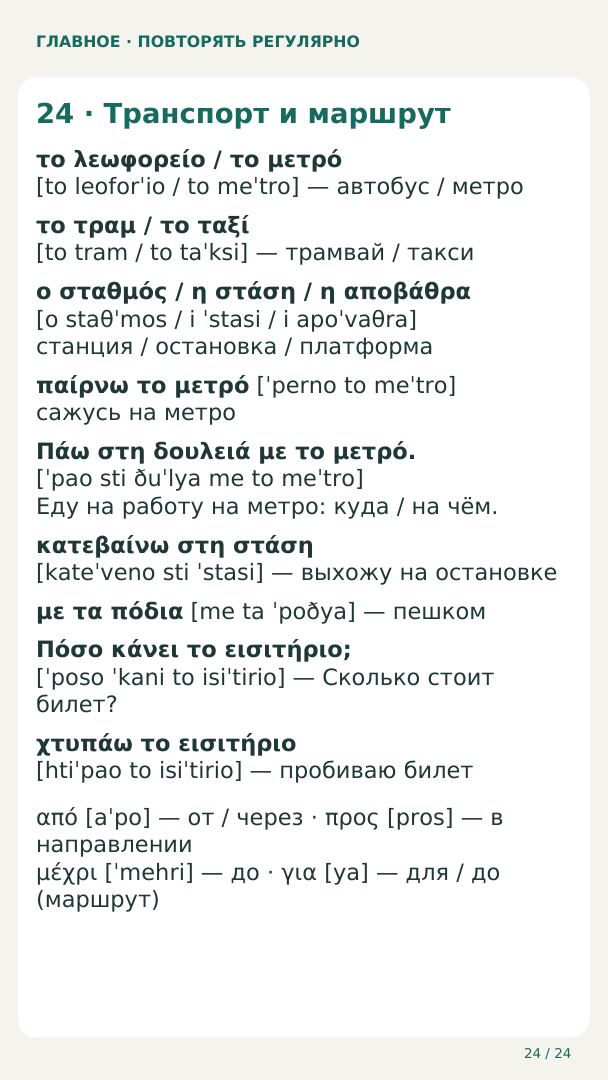
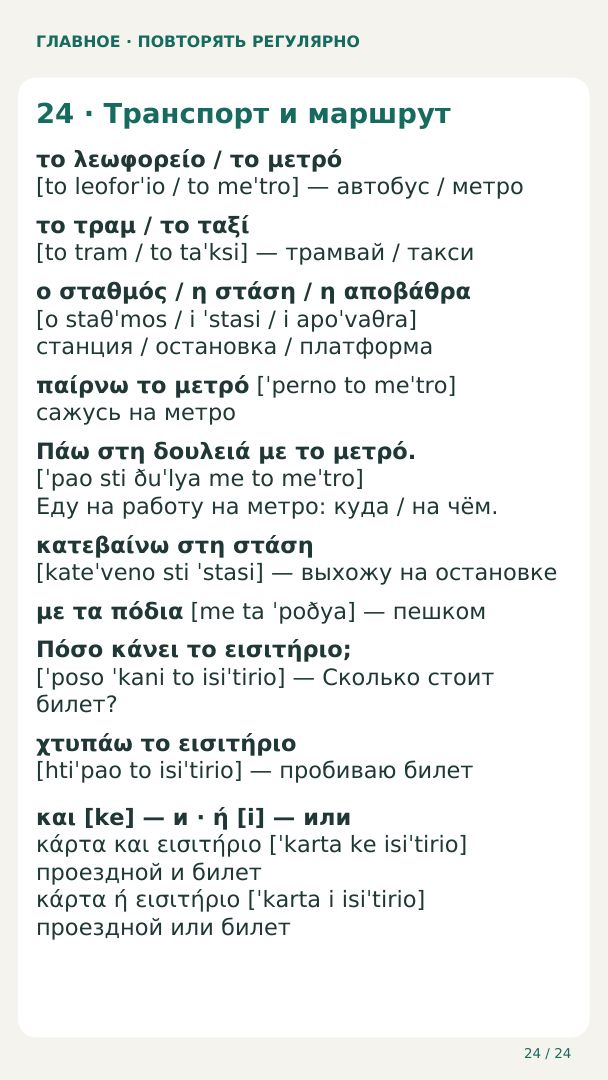
Add and-or examples to the core transport card

Changed region(s): [[0.0625, 0.7333, 0.8125, 0.8861], [0.8125, 0.7333, 0.8438, 0.7639]]

diff --git a/docs/memory/core.md b/docs/memory/core.md
@@ -42,7 +42,7 @@ A4: читай блоки **слева направо, затем вниз**. Н
 | [21. Сон и утро](../assets/mobile/core/card-21.png) | Шесть форм «спать», просыпаюсь / встаю, моюсь, одеваюсь и собираюсь | [Урок 18](../lessons/lesson-18-current.md#sleep), [правило](../reference/grammar/sleep-and-daily-routine.md) |
 | [22. Числа больше ста](../assets/mobile/core/card-22.png) | Сотни, тысяча и тысячи, миллион; согласование рода | [Урок 18](../lessons/lesson-18-current.md#numbers), [правило](../reference/numbers-over-100.md) |
 | [23. Винительный](../assets/mobile/core/card-23.png) | Дополнение, предлоги, мужские окончания и имена | [Урок 19](../lessons/lesson-19-current.md#accusative), [правило](../reference/grammar/accusative-singular.md) |
-| [24. Транспорт](../assets/mobile/core/card-24.png) | На чём еду, где выхожу, пешком, билет | [Урок 19](../lessons/lesson-19-current.md#route) |
+| [24. Транспорт](../assets/mobile/core/card-24.png) | На чём еду, где выхожу, пешком, билет, «и» и «или» | [Урок 19](../lessons/lesson-19-current.md#route) |
 
 Карточка 14 — короткая выборка. [Полный тематический набор и тренажёр](professions.md)
 остаются для подготовки к диктанту; [вопросы о работе](questions-answers.md) — в сборнике вопросов.
